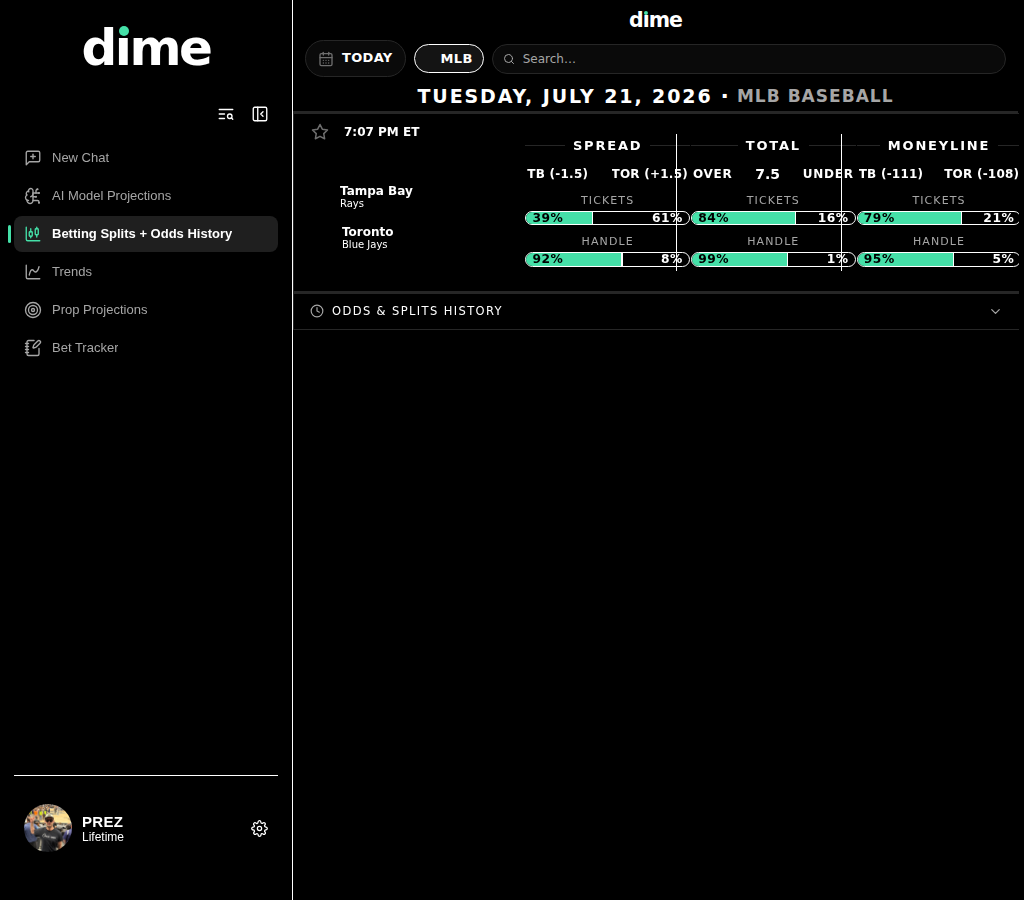
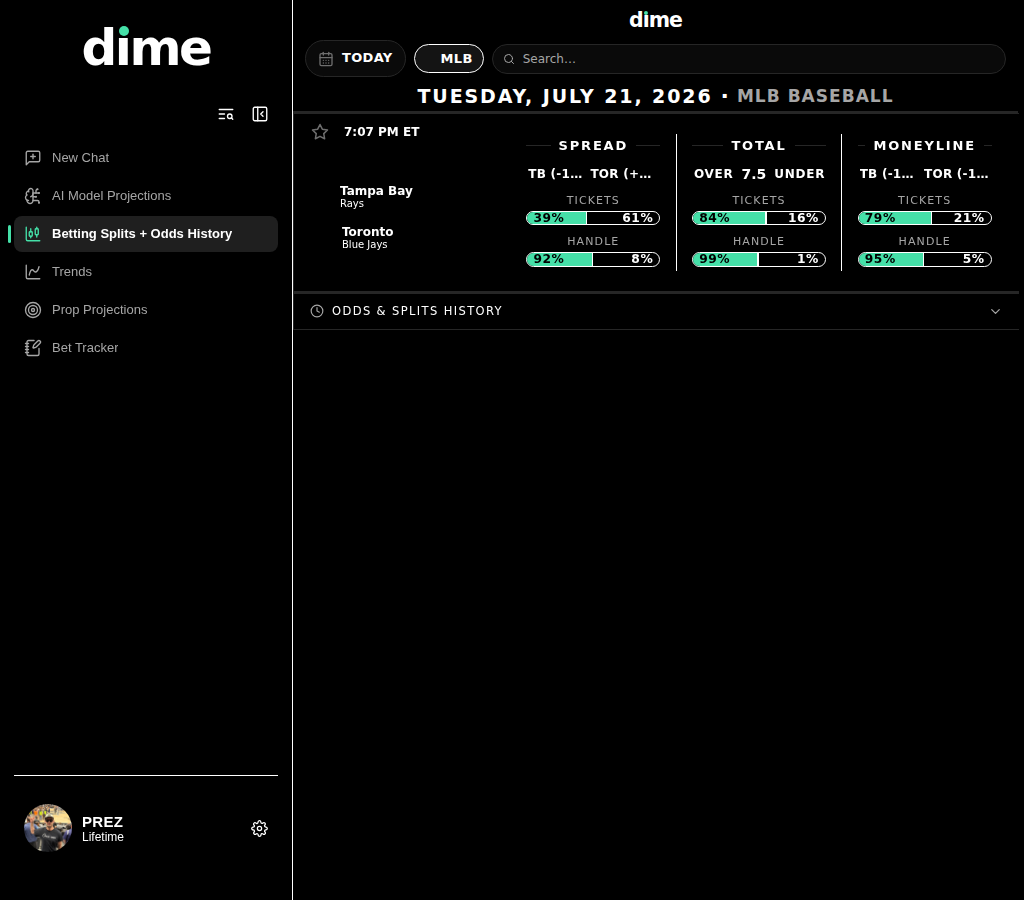
fix(splits): grid-track dividers + gutter floors — no viewport cutoff, no section crossings
Root cause (from e2e diagnosis): the >=md flex row's min-content exceeded
its column's share, with the rightmost (Moneyline) MarketBlock's own
bounding box exceeding window.innerWidth by +7px (768/834) to +19px
(1280-1920); page-level overflow was masked by GameCard's ancestor
overflow-x:clip so users saw hard-cut labels instead of a scrollbar.
Fixed via the plan's Step 1 (minmax(0,1fr) grid tracks with the 1px
dividers as their own tracks), Step 2 (MarketBlock gutter floor raised
to clamp(14px,1.5vw,20px)), and Step 3 (minWidth:0/gap on the TOTAL
header row).

Steps 1-3 alone did not clear the harness: the splits surface renders
inside the Dime chat shell's .dc-page container, whose frozen-tokens.css
deliberately resets box-sizing to content-box for all .dc-page
descendants (a "frozen UA default environment" match to the reference
design). Under content-box, MarketBlock's width:100% (w-full) sized only
its content box, so its own horizontal padding was added on top of the
grid track's width instead of being carved out of it — every column
rendered ~38px wider than its track (measured: 241.531px track vs
279.906px rendered box at 1280px) and bled across its divider/neighbor/
viewport edge, reproducing the exact violation strings from the prior
diagnosis even after Steps 1-3. Added boxSizing:"border-box" to
data-market-col — a self-contained, unconditionally-correct fix inside
this file — without touching the shell's frozen-tokens.css.
[…]

Changed region(s): [[0.5, 0.1556, 1.0, 0.3111]]

diff --git a/client/src/components/BettingSplitsPanel.tsx b/client/src/components/BettingSplitsPanel.tsx
@@ -554,7 +554,7 @@ function MarketBlock({ title, awayLabel, homeLabel, totalValue, ticketsPct, hand
     // Horizontal inset keeps adjacent market columns' labels ≥24px apart
     // across the divider (never a run-on line) while still fitting two
     // "WSH (-106)"-length labels per column in the 1024–1279 shell band.
-    <div className="flex flex-col w-full" data-market-col style={{ gap: 10, padding: "12px clamp(12px, 1.4vw, 18px)" }}>
+    <div className="flex flex-col w-full" data-market-col style={{ gap: 10, padding: "12px clamp(14px, 1.5vw, 20px)", boxSizing: "border-box" }}>
       <div className="flex items-center gap-2">
         <div className="flex-1" style={{ height: 1, background: "var(--dime-border, #ffffff)" }} />
         <span className="uppercase tracking-widest font-bold whitespace-nowrap"
@@ -564,7 +564,7 @@ function MarketBlock({ title, awayLabel, homeLabel, totalValue, ticketsPct, hand
       {/* Both label-row branches share one fixed box so the three market
           columns keep a single baseline (TOTAL used to sit 3-4px lower). */}
       {isTotalMarket ? (
-        <div className="flex items-center justify-between" style={{ paddingLeft: 2, paddingRight: 2, minHeight: 'clamp(21px, 1.8vw, 30px)' }}>
+        <div className="flex items-center justify-between" style={{ paddingLeft: 2, paddingRight: 2, gap: 8, minHeight: 'clamp(21px, 1.8vw, 30px)', minWidth: 0 }}>
           <span style={{ fontSize: 'clamp(12px, 1.0vw, 16px)', color: "var(--dime-text-primary, #ffffff)", fontWeight: 700, letterSpacing: "0.06em" }}>OVER</span>
           <span style={{ fontSize: 'clamp(14px, 1.2vw, 20px)', color: "var(--dime-text-primary, #ffffff)", fontWeight: 700, fontVariantNumeric: 'tabular-nums' }}>{totalValue}</span>
           <span style={{ fontSize: 'clamp(12px, 1.0vw, 16px)', color: "var(--dime-text-primary, #ffffff)", fontWeight: 700, letterSpacing: "0.06em" }}>UNDER</span>
@@ -737,26 +737,37 @@ export function BettingSplitsPanel({
         )}
       </div>}
 
-      {/* ── Tablet + desktop (≥ md): full-size horizontal 3-column layout, no tabs ── */}
-      {/* Always render all 3 columns so the panel fills 100% width with no whitespace */}
-      {isMdUp && <div style={{ display: 'flex', alignItems: 'stretch', width: '100%' }}>
+      {/* ── Tablet + desktop (≥ md): three equal minmax(0,1fr) tracks with the
+           1px dividers as their own grid tracks. A divider that owns a track
+           cannot be painted over by neighboring content, and minmax(0,1fr)
+           makes each column shrinkable so nowrap labels ellipsize instead of
+           pushing the row past the viewport. ── */}
+      {isMdUp && <div
+        style={{
+          display: 'grid',
+          gridTemplateColumns: 'minmax(0,1fr) 1px minmax(0,1fr) 1px minmax(0,1fr)',
+          alignItems: 'stretch',
+          width: '100%',
+          minWidth: 0,
+        }}
+      >
         {/* Spread column — always rendered */}
-        <div className="flex-1 min-w-0">
+        <div className="min-w-0">
           <MarketBlock title="Spread" awayLabel={awaySpreadLabel} homeLabel={homeSpreadLabel}
             ticketsPct={game.spreadAwayBetsPct} handlePct={game.spreadAwayMoneyPct}
             awayColor={awayColor} homeColor={homeColor} />
         </div>
-        <div data-splits-divider style={{ width: 1, background: "#ffffff", flexShrink: 0, alignSelf: "stretch", margin: "8px 0" }} />
+        <div data-splits-divider style={{ background: "#ffffff", margin: "8px 0" }} />
         {/* Total column — always rendered */}
-        <div className="flex-1 min-w-0">
+        <div className="min-w-0">
           <MarketBlock title="Total" awayLabel="" homeLabel=""
             totalValue={isNaN(bookTotal) ? undefined : bookTotal}
             ticketsPct={game.totalOverBetsPct} handlePct={game.totalOverMoneyPct}
             awayColor={awayColor} homeColor={homeColor} />
         </div>
-        <div data-splits-divider style={{ width: 1, background: "#ffffff", flexShrink: 0, alignSelf: "stretch", margin: "8px 0" }} />
+        <div data-splits-divider style={{ background: "#ffffff", margin: "8px 0" }} />
         {/* Moneyline column — always rendered */}
-        <div className="flex-1 min-w-0">
+        <div className="min-w-0">
           <MarketBlock title="Moneyline" awayLabel={awayMlLabel} homeLabel={homeMlLabel}
             ticketsPct={game.mlAwayBetsPct} handlePct={game.mlAwayMoneyPct}
             awayColor={awayColor} homeColor={homeColor} />
